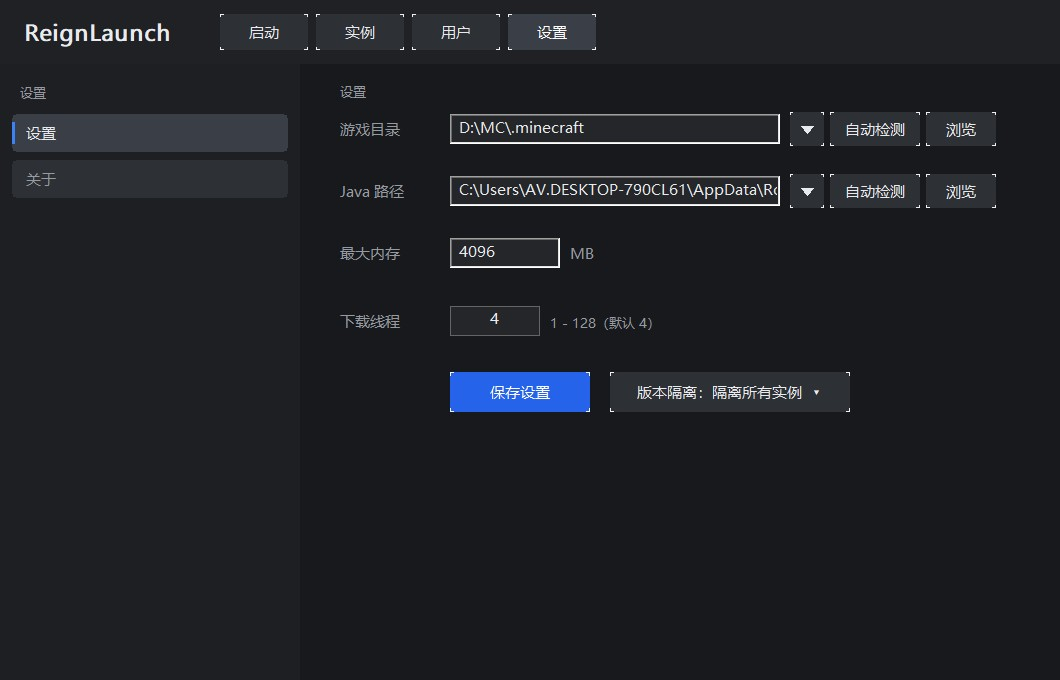
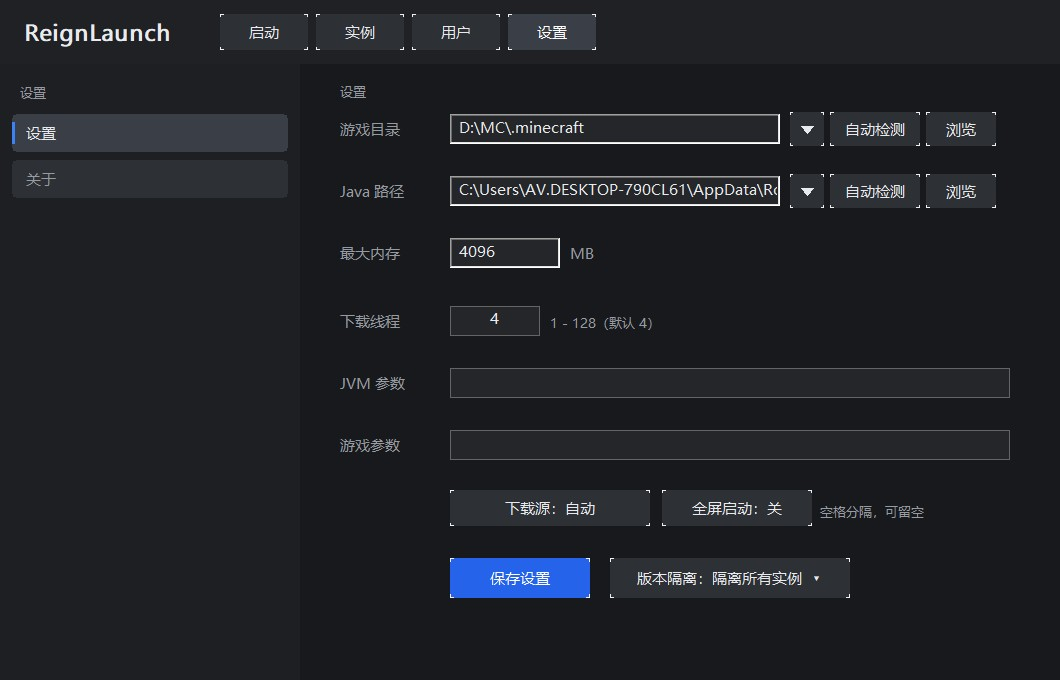
feat: add JVM args, game args, download source and fullscreen settings

diff --git a/src/ReignLaunch.cpp b/src/ReignLaunch.cpp
@@ -64,7 +64,11 @@ struct Config {
     std::string gameDir;
     std::string skinPath;   // 当前皮肤 PNG
     int  isoMode = 0;
-    int  dlThreads = 4;             // 下载线程数 1..128               // 版本隔离：0=隔离所有实例 1=仅模组实例 2=不隔离
+    int  dlThreads = 4;
+    std::string extraJvm;            // 追加的 JVM 参数
+    std::string extraGame;           // 追加的游戏参数
+    int  dlSource = 0;               // 0=自动 1=仅官方 2=仅镜像
+    bool fullscreen = false;         // 全屏启动             // 下载线程数 1..128               // 版本隔离：0=隔离所有实例 1=仅模组实例 2=不隔离
     std::string javaPath;
     int         maxMemMB = 4096;
     std::string playerName = "Steve";
@@ -120,7 +124,7 @@ static HWND hBtnLogin, hBtnLogout, hBtnOffline, hBtnSkin, hBtnDelAcc;
 
 static HWND hLblDir, hEdDir, hBtnAutoDir, hBtnBrowseDir, hBtnDirDrop;
 static HWND hLblJava, hEdJava, hBtnAutoJava, hBtnBrowseJava, hBtnJavaDrop;
-static HWND hLblMem, hEdMem, hEdName, hLblName, hBtnSave, hBtnIso, hEdThreads;
+static HWND hLblMem, hEdMem, hEdName, hLblName, hBtnSave, hBtnIso, hEdThreads, hEdJvm, hEdGame, hBtnSource, hBtnFull;
 
 // ============================ 颜色 ============================
 static const COLORREF C_BG       = RGB(24, 25, 28);
@@ -238,6 +242,10 @@ static void SaveConfig() {
     j["gameDir"]       = g_cfg.gameDir;
     j["isoMode"] = g_cfg.isoMode;
     j["dlThreads"] = g_cfg.dlThreads;
+    j["extraJvm"] = g_cfg.extraJvm;
+    j["extraGame"] = g_cfg.extraGame;
+    j["dlSource"] = g_cfg.dlSource;
+    j["fullscreen"] = g_cfg.fullscreen;
     j["skinPath"] = g_cfg.skinPath;
     {
         json arr = json::array();
@@ -275,6 +283,10 @@ static void LoadConfig() {
         g_cfg.gameDir        = j.value("gameDir", std::string());
     g_cfg.isoMode = j.value("isoMode", 0);
     g_cfg.dlThreads = j.value("dlThreads", 4);
+    g_cfg.extraJvm = j.value("extraJvm", std::string());
+    g_cfg.extraGame = j.value("extraGame", std::string());
+    g_cfg.dlSource = j.value("dlSource", 0);
+    g_cfg.fullscreen = j.value("fullscreen", false);
     g_cfg.skinPath = j.value("skinPath", std::string());
 
     g_cfg.activeAcc = j.value("activeAcc", -1);
@@ -615,8 +627,14 @@ static bool HttpRequest(const std::string& urlU8, const std::string& method,
 
 static bool DownloadFile(const std::string& url, const fs::path& dest, std::string& err) {
     std::vector<unsigned char> data;
-    if (!HttpRequest(url, "GET", "", "", data, err)) {
-        std::string mirror = ToMirror(url);
+    std::string mirror = ToMirror(url);
+    // dlSource: 0=自动(先官方，失败切镜像) 1=仅官方 2=仅镜像
+    if (g_cfg.dlSource == 2 && mirror != url) {
+        std::string e2;
+        if (!HttpRequest(mirror, "GET", "", "", data, e2)) { err = "镜像: " + e2; return false; }
+    }
+    else if (!HttpRequest(url, "GET", "", "", data, err)) {
+        if (g_cfg.dlSource == 1) return false;   // 仅官方：不切镜像
         if (mirror != url) {
             std::string e2;
             if (HttpRequest(mirror, "GET", "", "", data, e2)) err.clear();
@@ -890,6 +908,19 @@ static bool BuildLaunchPlan(const std::string& versionId, LaunchPlan& plan, std:
     };
 
     std::vector<std::string> jvmArgs, gameArgs;
+
+    // 用户自定义参数（按空格拆分，支持带引号）
+    auto splitArgs = [](const std::string& s) {
+        std::vector<std::string> out;
+        std::string cur; bool q = false;
+        for (char c : s) {
+            if (c == '"') { q = !q; continue; }
+            if (c == ' ' && !q) { if (!cur.empty()) { out.push_back(cur); cur.clear(); } }
+            else cur.push_back(c);
+        }
+        if (!cur.empty()) out.push_back(cur);
+        return out;
+    };
     if (vj.contains("arguments") && vj["arguments"].is_object()) {
         auto pushArg = [&](std::vector<std::string>& out, const std::string& raw) {
             std::string s = sub(raw);
@@ -933,9 +964,12 @@ static bool BuildLaunchPlan(const std::string& versionId, LaunchPlan& plan, std:
         cmd += L" -javaagent:\"" + U8ToW(g_cfg.authlibPath) + L"\"=" + U8ToW(g_cfg.authServer);
     }
 
+    for (auto& a : splitArgs(g_cfg.extraJvm)) cmd += L" " + U8ToW(QuoteIfNeeded(a));
     for (auto& a : jvmArgs) cmd += L" " + U8ToW(QuoteIfNeeded(a));
     cmd += L" -cp \"" + U8ToW(cp) + L"\"";
     cmd += L" " + U8ToW(mainClass);
+    for (auto& a : splitArgs(g_cfg.extraGame)) cmd += L" " + U8ToW(QuoteIfNeeded(a));
+    if (g_cfg.fullscreen) cmd += L" --fullscreen";
     for (auto& a : gameArgs) cmd += L" " + U8ToW(QuoteIfNeeded(a));
 
     plan.commandLine = cmd;
@@ -1419,6 +1453,10 @@ static std::string        g_loginErr;
 #define ID_BTN_SKIN      1340
 #define ID_BTN_DELACC    1341
 #define ID_ED_THREADS    1360
+#define ID_ED_JVM        1361
+#define ID_ED_GAME       1362
+#define ID_BTN_SOURCE    1363
+#define ID_BTN_FULL      1364
 #define ID_BTN_SAVE     1320
 #define ID_BTN_ISO      1321
 
@@ -1571,9 +1609,13 @@ static void LayoutControls() {
 
         MoveWindow(hEdMem,  x + Scale(110), y + rowH * 2, Scale(110), edH, TRUE);
 
-        MoveWindow(hBtnSave, x + Scale(110), y + rowH * 4 + Scale(10), Scale(140), Scale(40), TRUE);
-        MoveWindow(hBtnIso,  x + Scale(270), y + rowH * 4 + Scale(10), Scale(240), Scale(40), TRUE);
+        MoveWindow(hBtnSave, x + Scale(110), y + rowH * 7 + Scale(10), Scale(140), Scale(40), TRUE);
+        MoveWindow(hBtnIso,  x + Scale(270), y + rowH * 7 + Scale(10), Scale(240), Scale(40), TRUE);
         MoveWindow(hEdThreads, x + Scale(110), y + rowH * 3 + Scale(6), Scale(90), Scale(30), TRUE);
+        MoveWindow(hEdJvm,  x + Scale(110), y + rowH * 4 + Scale(6), Scale(560), Scale(30), TRUE);
+        MoveWindow(hEdGame, x + Scale(110), y + rowH * 5 + Scale(6), Scale(560), Scale(30), TRUE);
+        MoveWindow(hBtnSource, x + Scale(110), y + rowH * 6 + Scale(4), Scale(200), Scale(36), TRUE);
+        MoveWindow(hBtnFull,   x + Scale(322), y + rowH * 6 + Scale(4), Scale(150), Scale(36), TRUE);
     }
 }
 
@@ -1910,6 +1952,10 @@ static void SyncSettingsVisibility() {
     ShowWindow(hBtnSave, onSettings ? SW_SHOW : SW_HIDE);
     ShowWindow(hBtnIso,  onSettings ? SW_SHOW : SW_HIDE);
     ShowWindow(hEdThreads, onSettings ? SW_SHOW : SW_HIDE);
+    ShowWindow(hEdJvm,  onSettings ? SW_SHOW : SW_HIDE);
+    ShowWindow(hEdGame, onSettings ? SW_SHOW : SW_HIDE);
+    ShowWindow(hBtnSource, onSettings ? SW_SHOW : SW_HIDE);
+    ShowWindow(hBtnFull,   onSettings ? SW_SHOW : SW_HIDE);
 }
 static void DrawCandList(HDC dc, bool isDir) {
     const std::vector<Cand>& list = isDir ? g_dirCands : g_javaCands;
@@ -2326,9 +2372,18 @@ static void PaintMain(HDC dc, int w, int h) {
             DrawTextIn(dc, L"1 - 128（默认 4）", th, C_DIM, g_fSmall);
         }
 
+        {
+            RECT a = { x, y + rowH * 4 + Scale(6), x + Scale(100), y + rowH * 4 + Scale(36) };
+            DrawTextIn(dc, L"JVM 参数", a, C_DIM, g_fUi);
+            RECT b2 = { x, y + rowH * 5 + Scale(6), x + Scale(100), y + rowH * 5 + Scale(36) };
+            DrawTextIn(dc, L"游戏参数", b2, C_DIM, g_fUi);
+            RECT c2 = { x + Scale(480), y + rowH * 6 + Scale(16), g_ly.main.right - Scale(40), y + rowH * 6 + Scale(36) };
+            DrawTextIn(dc, L"空格分隔，可留空", c2, C_DIM, g_fSmall);
+        }
+
 
         if (!g_status.empty()) {
-            RECT st = { x, y + rowH * 5 + Scale(50), g_ly.main.right - Scale(40), g_ly.content.bottom - Scale(20) };
+            RECT st = { x, y + rowH * 8 + Scale(6), g_ly.main.right - Scale(40), g_ly.content.bottom - Scale(4) };
             DrawTextIn(dc, g_status, st, C_OK, g_fSmall, DT_LEFT | DT_TOP | DT_WORDBREAK);
         }
         }
@@ -2569,6 +2624,20 @@ static LRESULT CALLBACK MainProc(HWND hwnd, UINT msg, WPARAM wp, LPARAM lp) {
                         0, 0, 10, 10, hwnd, (HMENU)ID_ED_THREADS, GetModuleHandleW(nullptr), nullptr);
         SendMessageW(hEdThreads, WM_SETFONT, (WPARAM)g_fUi, TRUE);
 
+        if (hEdJvm) {} else {
+        hEdJvm = CreateWindowExW(0, L"EDIT", U8ToW(g_cfg.extraJvm).c_str(),
+                    WS_CHILD | WS_BORDER, 0, 0, 10, 10, hwnd, (HMENU)ID_ED_JVM, GetModuleHandleW(nullptr), nullptr);
+        SendMessageW(hEdJvm, WM_SETFONT, (WPARAM)g_fUi, TRUE);
+
+        hEdGame = CreateWindowExW(0, L"EDIT", U8ToW(g_cfg.extraGame).c_str(),
+                    WS_CHILD | WS_BORDER, 0, 0, 10, 10, hwnd, (HMENU)ID_ED_GAME, GetModuleHandleW(nullptr), nullptr);
+        SendMessageW(hEdGame, WM_SETFONT, (WPARAM)g_fUi, TRUE);
+
+        hBtnSource = MakeBtn(hwnd, g_cfg.dlSource == 1 ? L"下载源：仅官方"
+                                  : g_cfg.dlSource == 2 ? L"下载源：仅 BMCLAPI" : L"下载源：自动", ID_BTN_SOURCE);
+        hBtnFull   = MakeBtn(hwnd, g_cfg.fullscreen ? L"全屏启动：开" : L"全屏启动：关", ID_BTN_FULL);
+        }
+
         hEdDir  = MakeEdit(hwnd, ID_ED_DIR, U8ToW(g_cfg.gameDir).c_str());
         hEdJava = MakeEdit(hwnd, ID_ED_JAVA, U8ToW(g_cfg.javaPath).c_str());
         hEdMem  = MakeEdit(hwnd, ID_ED_MEM, std::to_wstring(g_cfg.maxMemMB).c_str(), ES_NUMBER);
@@ -2795,7 +2864,27 @@ static LRESULT CALLBACK MainProc(HWND hwnd, UINT msg, WPARAM wp, LPARAM lp) {
             }
             break;
 
-        case ID_BTN_OVCANCEL:
+        case ID_BTN_SOURCE: {
+        g_cfg.dlSource = (g_cfg.dlSource + 1) % 3;
+        SetWindowTextW(hBtnSource,
+            g_cfg.dlSource == 1 ? L"下载源：仅官方"
+          : g_cfg.dlSource == 2 ? L"下载源：仅 BMCLAPI" : L"下载源：自动");
+        SaveConfig();
+        g_status = L"下载源已切换";
+        InvalidateRect(hwnd, nullptr, TRUE);
+        break;
+    }
+
+    case ID_BTN_FULL: {
+        g_cfg.fullscreen = !g_cfg.fullscreen;
+        SetWindowTextW(hBtnFull, g_cfg.fullscreen ? L"全屏启动：开" : L"全屏启动：关");
+        SaveConfig();
+        g_status = g_cfg.fullscreen ? L"已开启全屏启动" : L"已关闭全屏启动";
+        InvalidateRect(hwnd, nullptr, TRUE);
+        break;
+    }
+
+    case ID_BTN_OVCANCEL:
         g_cancelLaunch = true;
         // 立刻终止已经起来的游戏进程
         {
@@ -3000,6 +3089,8 @@ static LRESULT CALLBACK MainProc(HWND hwnd, UINT msg, WPARAM wp, LPARAM lp) {
         g_cfg.dlThreads = n;
         SetWindowTextW(hEdThreads, std::to_wstring(n).c_str());
     }
+    g_cfg.extraJvm  = WToU8(CtlText(hEdJvm));
+    g_cfg.extraGame = WToU8(CtlText(hEdGame));
             {
         std::string emb = ExtractEmbeddedAuthlib();
         if (!emb.empty()) {
